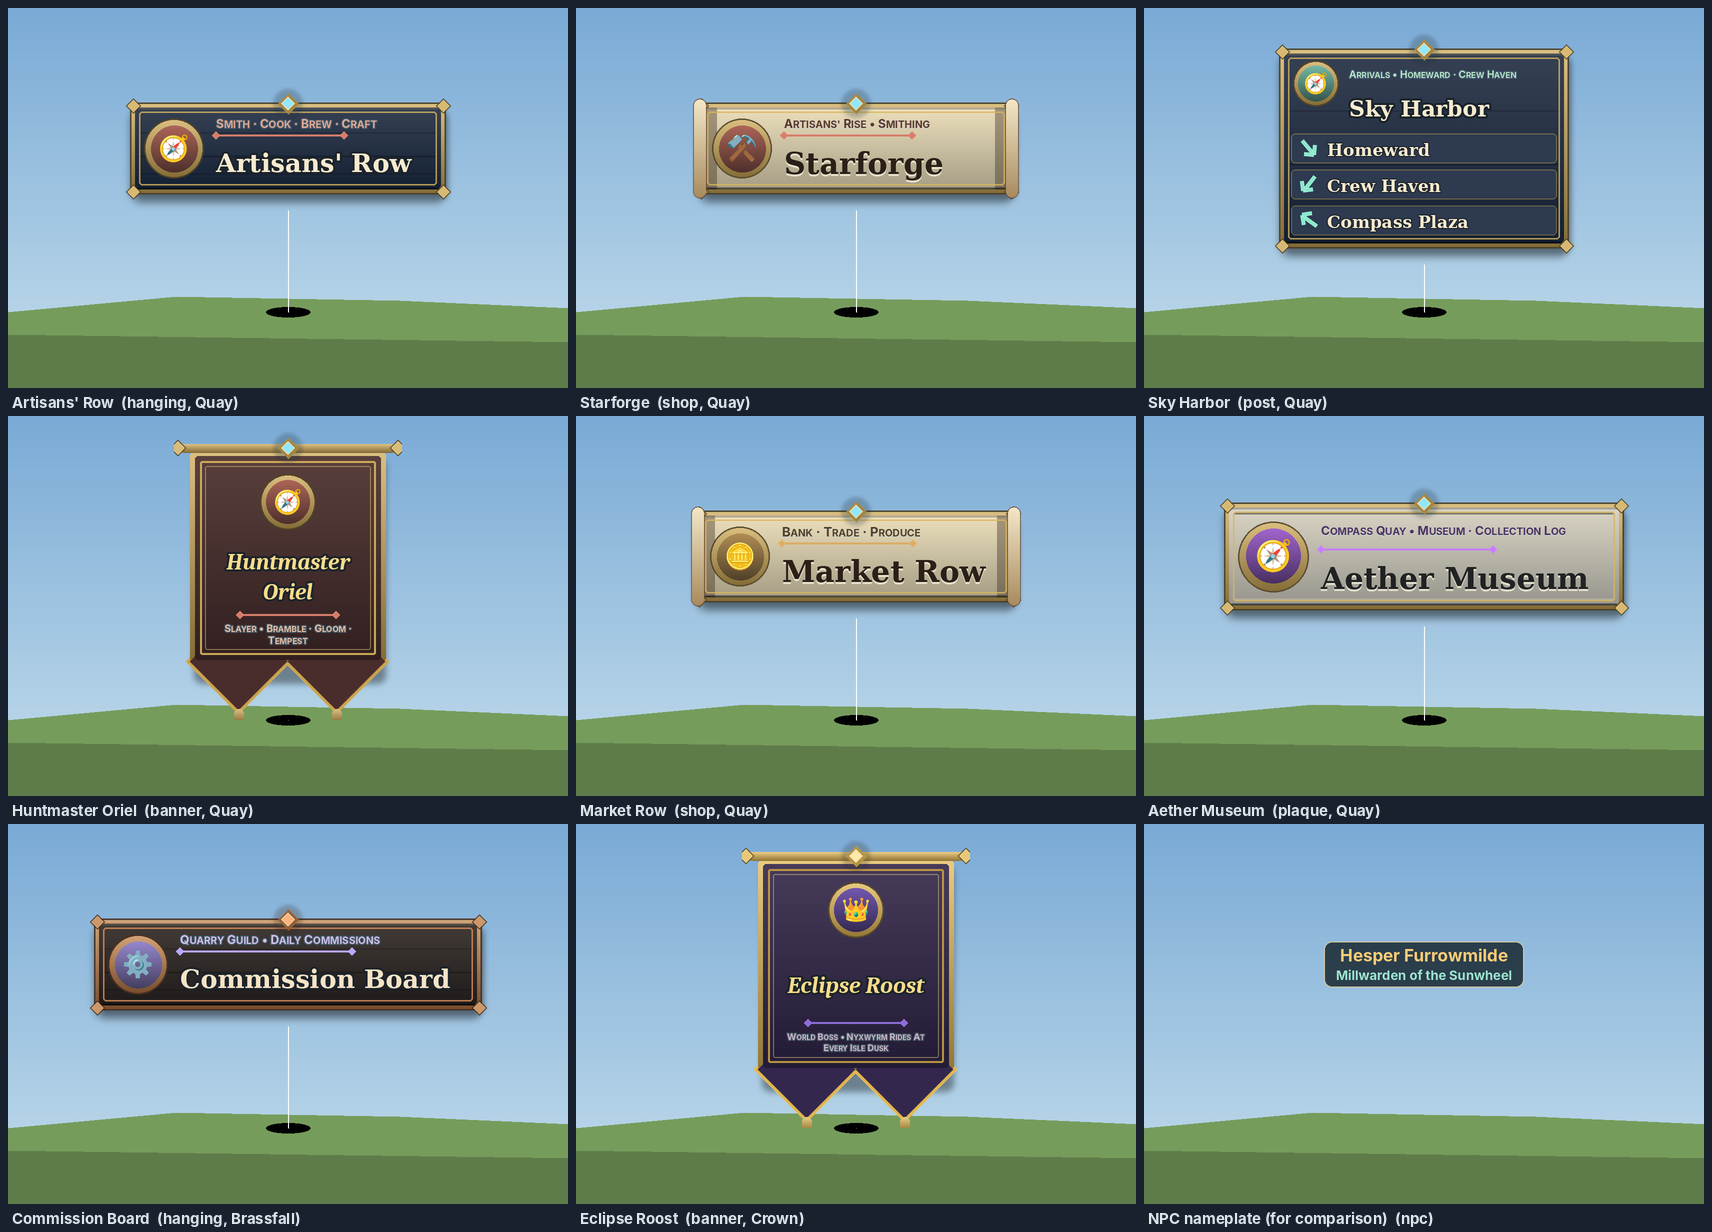
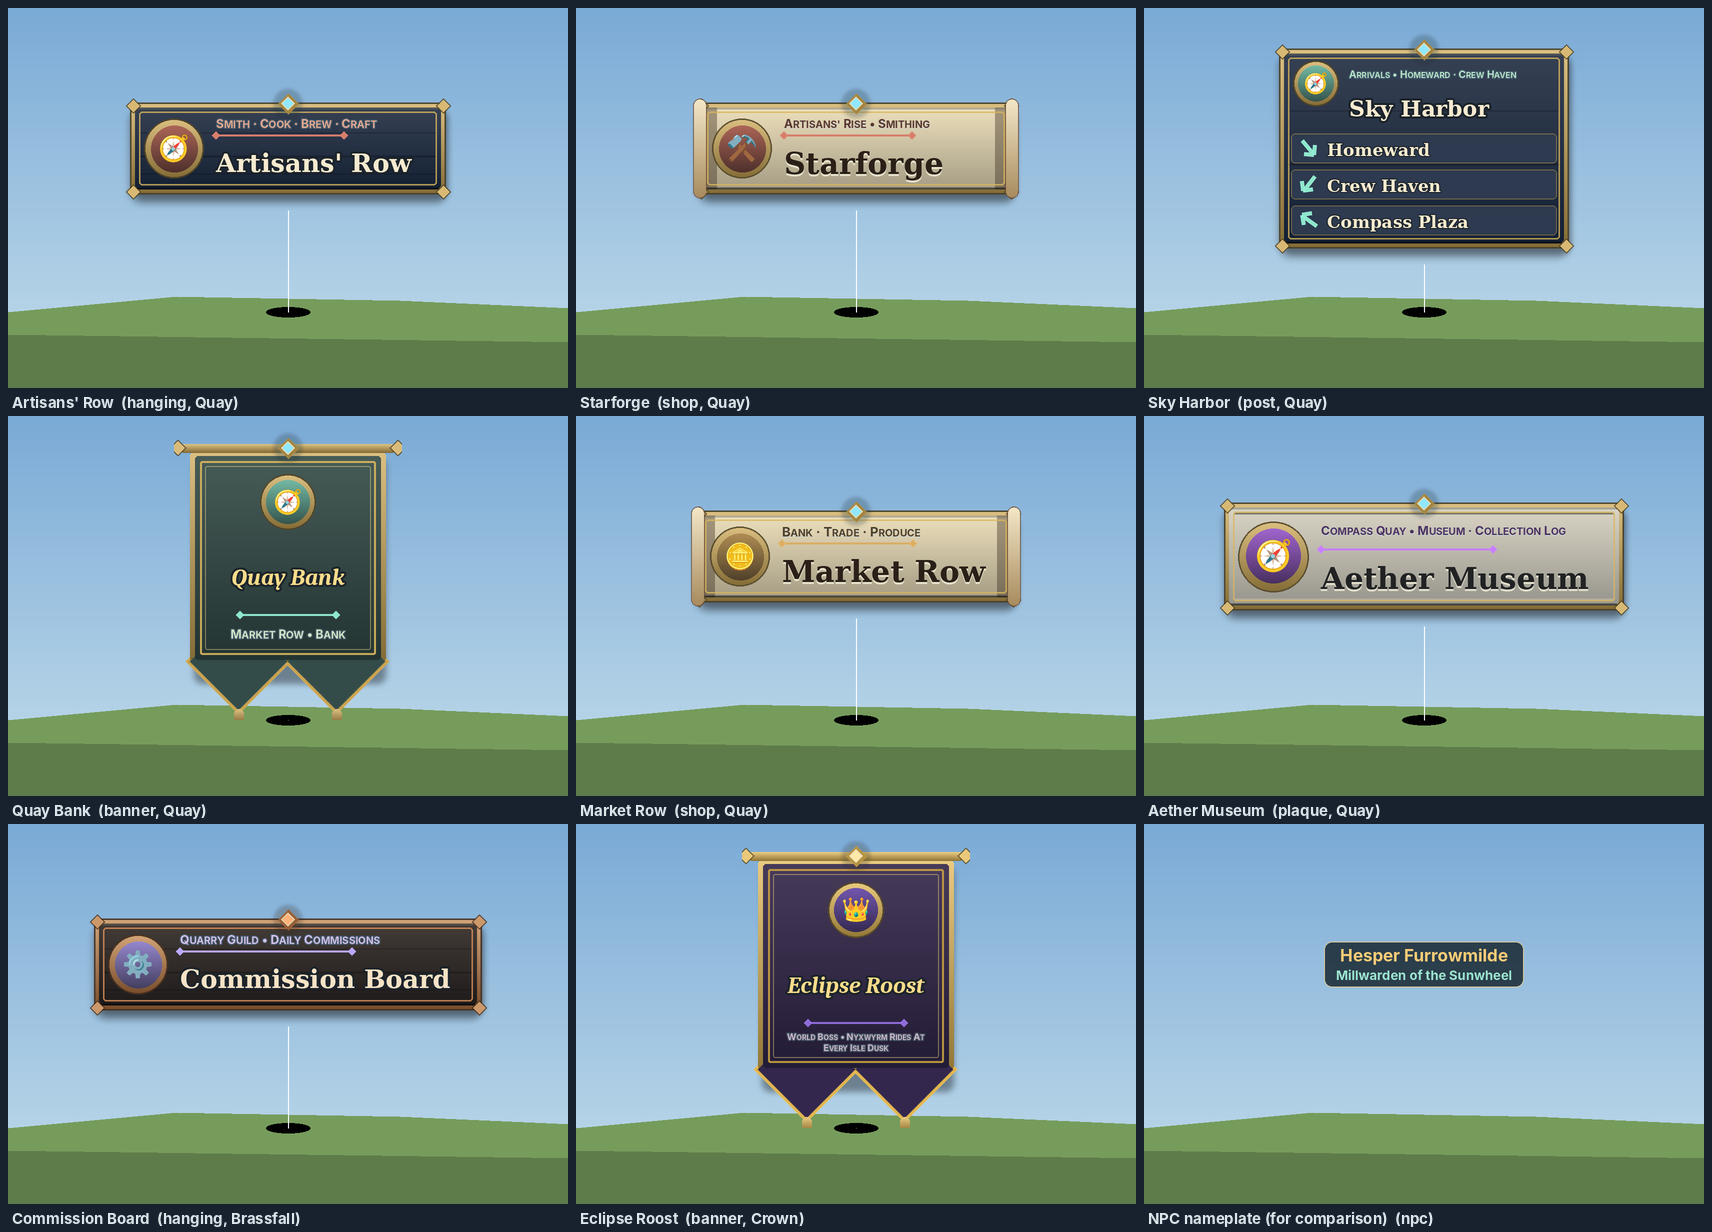
Signs v2: merge World Art pass 2, fix sign-count expectations, re-render
verify-crafting counts the one-part floating sign; verify-beaconry picks a
prompt clear of beacon pyres (layout moved); §28 budget notes; renders
refreshed with the new hall banners.

Claude-Session: https://claude.ai/code/session_01FkUNqZEFYap7XtGbpVDhXd

Changed region(s): [[0.0929, 0.3701, 0.2477, 0.586], [0.0, 0.6477, 0.1548, 0.6786]]

diff --git a/docs/DEPTH-CONTRACT.md b/docs/DEPTH-CONTRACT.md
@@ -205,7 +205,7 @@ Slayer review rules: superior loot scales with base level (Ichor/Sigil only from
 
 22 skills. New 99-level production skill `Crafting` (title Artificer, colour `C9708A`, perLevel +0.5 Defense and +0.5 Ranged Accuracy; 99 mantle +10/+10). All rules and data live in the `-- Crafting` section of `shared/GameData.lua` (`Data.Crafting`, alias `CR` below); `server.server.lua` (Crafting block before `perform`), `world.server.lua` (Crafting section), `ui.client.lua` (Workshop › Crafting), `animate.client.lua` and `nav.client.lua` consume it.
 
-- **Stations** (Guild Terrace, "Artificers' Row"): Jeweller's Bench (`Jeweller`), Tanning Rack (`Tannery`), Glass Furnace (`Glassworks`). Prompts: `IsleAction="craftStation"`, `IsleItem=<station>`, interact hold. Anchors `Waypoint_Jeweller|Tannery|Glassworks` (listed under Navigate › Stations). Models carry `CraftingContent=true`; built from existing mesh slots (Workbench, OreCluster, Barrel, Forge) — 18 station parts (bench 6, rack 5, furnace 7) + a 3-part §28 shop sign (bracket post, scroll board, gem icon) + 3 invisible waypoint anchors = 24 parts, no lights (asserted in verify-crafting).
+- **Stations** (Guild Terrace, "Artificers' Row"): Jeweller's Bench (`Jeweller`), Tanning Rack (`Tannery`), Glass Furnace (`Glassworks`). Prompts: `IsleAction="craftStation"`, `IsleItem=<station>`, interact hold. Anchors `Waypoint_Jeweller|Tannery|Glassworks` (listed under Navigate › Stations). Models carry `CraftingContent=true`; built from existing mesh slots (Workbench, OreCluster, Barrel, Forge) — 18 station parts (bench 6, rack 5, furnace 7) + a 1-part §28 v2 floating shop sign (its anchor) + 3 invisible waypoint anchors = 22 parts, no lights (asserted in verify-crafting).
 - **Branches** (`CR.Branches`, cadence s/action): gem cutting 1.8 (Facet Chisel), jewellery 2.4 (Ring/Necklace/Amulet Mould per recipe), amulet enchanting 3.0 (skill Enchanting), tanning 1.2, spinning 1.2 and weaving 1.8 (Drop Spindle), leatherwork 2.4 (Hide Needle), sand sifting 1.2, glassmelting 1.8, glassblowing 1.8 (Blowing Pipe). Tools are Forge recipes in `Data.Recipes` (Smithing 1–5, `category="craftTool"`), owned and never consumed.
 - **Recipes** live in `CR.Recipes` / `CR.RecipeOrder` — **not** `Data.Recipes`, so the generic `craft` verb cannot make them. Fields: `branch, station, seconds, level, xp, costs, amount, tool, collectionTier, skill ("Crafting" | "Enchanting"), shatter`. 75 patterns: 8 gem cuts (Dewquartz 1 … Starheart 78; five reuse the existing cut gems), 24 jewellery accessories (ring/necklace/amulet per gem; ingot + cut gem, amulets strung with Spun Thread; Dewquartz pieces take 4 gems and +2 Alloy Ingots, Sunstone and Mistpearl pieces 2 gems, so early jewellery is not cheap Magical Power), 4 enchanted amulets (Enchanting 35/50/65/80, Arcane Dust + glyphs, one rarity up; Voidgarnet/Stormopal/Starheart also take 3/1/6 extra cut gems), 2 glass charms (Farsight Orb, Prism Monocle), 5 leathers and 5 four-piece Ranged sets (Wayfarer 1, Downstride 18, Cinderhide 38, Duskprowl 58, Stormmantle 76; Ranged 1/10/25/40/55; `Data.Sets` with exactly four pieces and a bonus), Spun Thread, Skyweave Bolt, Skysand, Molten Skyglass (3 melts), 5 glassware pieces, Tanning Oil (vial + herbs; tiers 2+ of leather need it).
 - **`repeatable`** is true only for material/consumable outputs (thread, glass, gems, leathers, Tanning Oil); armour and jewellery patterns are `repeatable=false`, and the server's `Pets.craftStackable` additionally requires the output `kind` to be `material` or `consumable` (or pet candy, `petItem="candy"`, used up when fed), so a pet extra-craft ability never duplicates gear (any recipe, any skill).
@@ -318,7 +318,7 @@ Owner direction: "make the signs dynamic so they turn relative to the player's p
 - **Region identities** (`Signs.THEMES`: panel, text, trim, metal, stone, crystal, crest): Compass Quay / Guild Terrace brass & navy 🧭; Meadow Reach (Sunwheel) warm oak & wheat gold 🌾; Brassfall copper & soot ⚙; Mosswake / Windpine living wood & moss 🌿; Gloomhollow violet crystal 🔮; Tidewater driftwood & rope 🐚; Tempest slate & storm-blue ⚡; Cinder basalt & ember 🔥; Shattered Crown marble & gold 👑 (light panel, dark letters); Warden iron & crimson 🛡; Skyreach silver & sky 🦅; Home hearth oak 🏡.
 - **Client (`signs.client.lua`, StarterPlayerScripts.SignView; rules in `shared/SignView.lua` = ReplicatedStorage.AetherSignView).** Billboards start disabled; at 10 Hz the nearest `View.CAP` (desktop 18, phones 8) within their MaxDistance are enabled (instances kept and reused; nothing is created), `UIScale` = clamp(max·22/d, 0.5, max) (max 1, phones 0.78), the CanvasGroup fades over the last 20% of MaxDistance, post arrows rotate to the destination's bearing relative to the camera (ahead = up the screen); per frame the enabled ones bob ±0.12 studs (4.6 s; none with Settings › Reduced motion / device reduced motion); every 2 s the crystal glow follows the isle clock's day factor (`L.dayFactor`, no Lighting access). No lights are added, so §35 caps are untouched.
 - **Ledgers** (Hall of Mastery, Bestiary) stay physical `SignNoticeBoard` boards with a SurfaceGui (live `Row_<key>` / `Value_<key>` labels need a fixed face) but lost their notice posts and canopy (1 part each). `SignNoticeBoard` is the only sign kit shape left (`forge` `SIGN_KIT_SHAPES`, metal-quantised on desktop, default template on phones).
-- **Budget.** Static world 3,592 → **3,458 parts** (signs 221 → 87: one anchor per sign, two ledger boards; −134). 90 billboards, ≈ 4,700 GUI instances, 207 text labels; 10 sign meshes (≈ 7,800 triangles) removed from the world catalog (89 shapes / 55k triangles), which frees forge templates near Compass Quay.
+- **Budget.** Sign parts 221 → **87** (one anchor per sign, two ledger boards; −134 static parts: 3,592 → 3,458 before World Art pass 2, 3,551 with it). 90 billboards, ≈ 4,700 GUI instances, 207 text labels; 10 sign meshes (≈ 7,800 triangles) removed from the world catalog, which frees forge templates near Compass Quay. World Art pass 2's hall banners (Quay Bank, Trade Counter, …) go through `signAt(..., {kind = "banner"})` and are v2 billboards.
 - **Tests.** `verify-signs.luau`: every sign is v2, one part (invisible mesh-free anchor or the ledger board), one SignBillboard with the plaque vocabulary (frame, panel, inlay, shadow, crest, crystal glow brighter at night, four corner caps), MaxDistance / LightInfluence / AlwaysOnTop / bounded size, fonts (never Gotham) and the NPC nameplate contrast, text fit re-measured (rich text stripped), contrast against both gradient ends, small-caps kicker, one outline per label, arrows per destination, faction / Verdant Garden prompts on anchors, ledger rows, no anchor on a foreign prompt and no plaque covering a prompt or another plaque, the SignView rules (scale clamp, fade, nearest-N caps, bob off with reduced motion, arrow bearings, glow) and the client's use of them, the scrapped shapes gone. `verify-world` counts sign billboards; `verify-mesh` checks the one remaining kit shape.
 - **Previews.** `tools/dump-signs.luau` + `tools/render-signs.py` → `docs/screenshots/signs-v2-archetypes.png`, `signs-v2-night.png`, `signs-v2-regions.png` (see the screenshots README).
 - **Needs Studio judgement:** Merriweather Bold widths vs. the fit table (6% slack), emoji crest rendering per platform, CanvasGroup sharpness at fractional UIScale, the scale curve and caps on phones, bob feel, arrow bearings while orbiting the camera, night readability with Future lighting and bloom, and whether 18 / 8 visible plaques is the right cap in Compass Quay.
